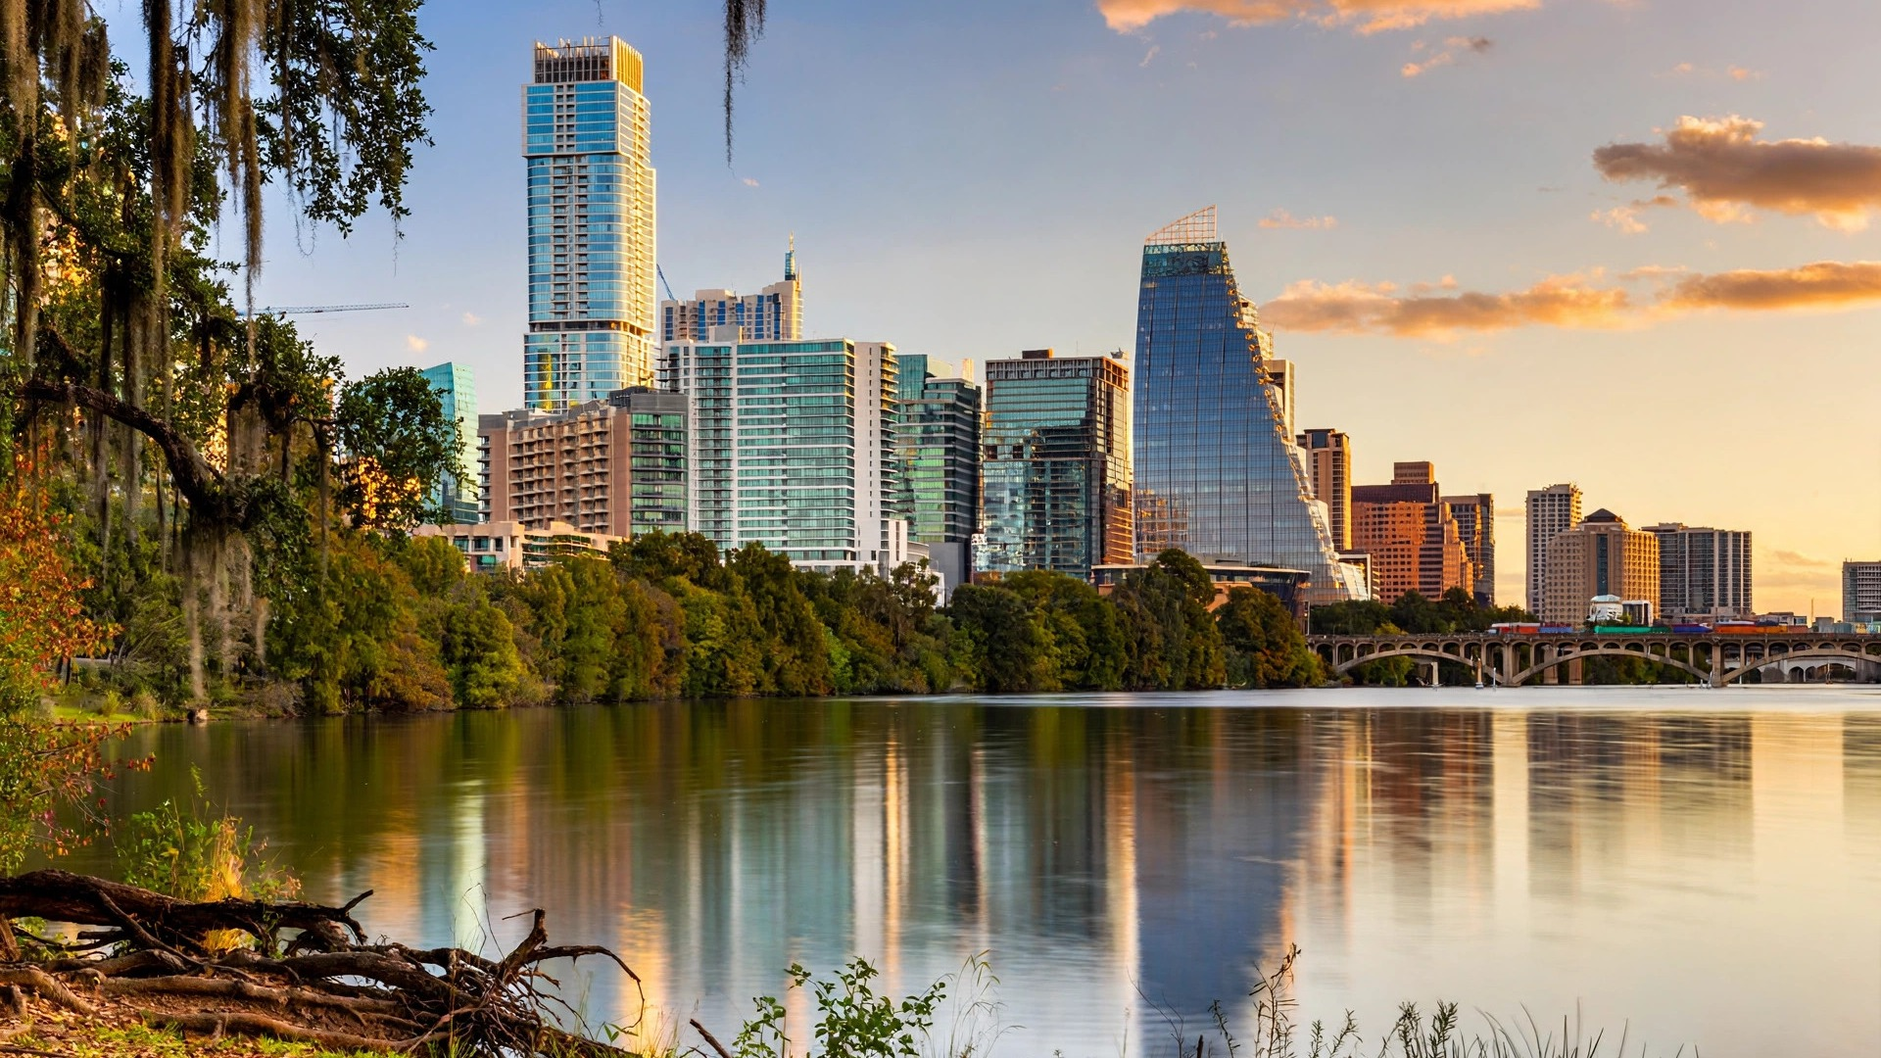
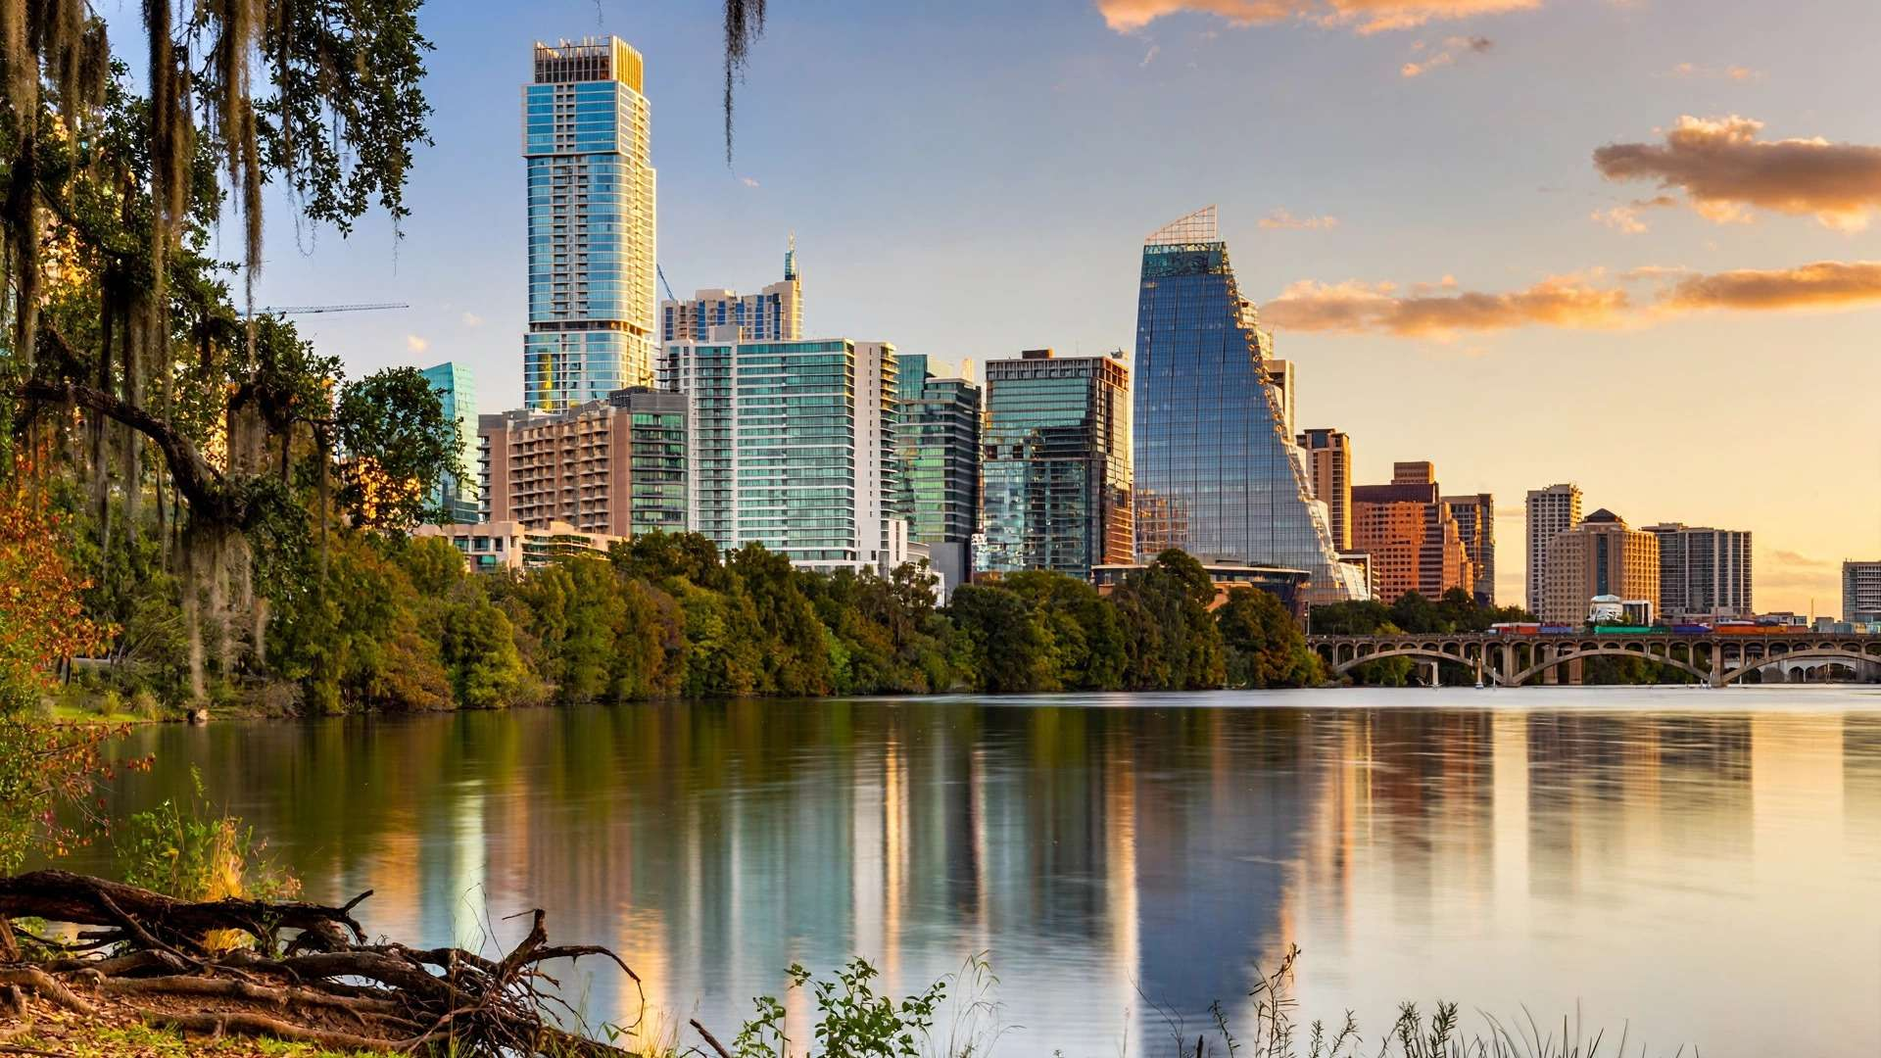
Homepage image diet: poster, quote-card illustration, review photos, mobile video gate
PageSpeed mobile was 75 with LCP 6.9s; the weight sat in three places. Hero poster recompressed in place (same 1920x1080 JPG, q60; it renders at 8 percent opacity). Quote-card illustration was a 522 KB 1920px PNG displayed at 96px; now a 384px WebP. Six review photos were 1296px PNGs in ~370px cards; now 768px WebPs, dimensions updated to match. The hero skyline video now loads only on screens 768px and up via a media-gated source; phones get the poster only and skip the 646 KB autoplay download. No wording changed.

Changed region(s): [[0.1875, 0.4278, 0.2188, 0.4889], [0.1562, 0.1528, 0.1875, 0.1833], [0.0625, 0.9778, 0.0938, 1.0]]

diff --git a/index.html b/index.html
@@ -17,7 +17,7 @@ Book Now
 (512) 661-7297
 </a> <a href="https://app.getvivaclean.com/book" class="flex items-center justify-center gap-2 rounded-md bg-accent px-5 py-3 text-white vc-shadow-cta hover:bg-accent-hover transition-colors">
 Book Online Now
-</a> </div> </div> </div> </div> <!-- Main Content --> <main>  <!-- ═══════════════════════════════════════════════════════════ --><!-- 1. HERO - Split layout with micro-form                    --><!-- ═══════════════════════════════════════════════════════════ --><section class="relative bg-white overflow-hidden"> <!-- Austin Skyline video background. The opacity on this layer is the site overlay; the video itself is not darkened. --> <div class="absolute inset-0 pointer-events-none" aria-hidden="true"> <video src="/images/austin-skyline-hero.mp4" poster="/images/austin-skyline-hero-poster-v2.jpg" autoplay muted loop playsinline preload="auto" class="w-full h-full object-cover object-bottom opacity-[0.08]" aria-hidden="true"></video> </div> <div class="relative z-10 mx-auto max-w-[1200px] px-6 py-8 md:py-12 grid gap-8 md:grid-cols-2 md:items-center"> <!-- Left: Copy --> <div> <h1 class="text-sm font-semibold text-accent">Austin House Cleaning &amp; Maid Service</h1> <p class="mt-3 text-[2rem] font-bold leading-[1.15] tracking-tight vc-navy-deep sm:text-5xl">
+</a> </div> </div> </div> </div> <!-- Main Content --> <main>  <!-- ═══════════════════════════════════════════════════════════ --><!-- 1. HERO - Split layout with micro-form                    --><!-- ═══════════════════════════════════════════════════════════ --><section class="relative bg-white overflow-hidden"> <!-- Austin Skyline video background. The opacity on this layer is the site overlay; the video itself is not darkened. --> <div class="absolute inset-0 pointer-events-none" aria-hidden="true"> <video poster="/images/austin-skyline-hero-poster-v2.jpg" autoplay muted loop playsinline preload="auto" class="w-full h-full object-cover object-bottom opacity-[0.08]" aria-hidden="true"><source src="/images/austin-skyline-hero.mp4" media="(min-width: 768px)" type="video/mp4"></video> </div> <div class="relative z-10 mx-auto max-w-[1200px] px-6 py-8 md:py-12 grid gap-8 md:grid-cols-2 md:items-center"> <!-- Left: Copy --> <div> <h1 class="text-sm font-semibold text-accent">Austin House Cleaning &amp; Maid Service</h1> <p class="mt-3 text-[2rem] font-bold leading-[1.15] tracking-tight vc-navy-deep sm:text-5xl">
 Your Home Cleaned Right, With the Photos to Prove It
 </p> <p class="mt-6 text-lg vc-body leading-relaxed">
 VivaClean cleans homes across Austin. You see your exact price online before you book, and after the clean, timestamped before and after photos of every room land in your client portal. If we miss something, flag it within 48 hours and we come back and re-clean it at no charge.
@@ -27,7 +27,7 @@ Background-checked, bonded, and insured cleaners
 We bring every supply and every tool
 </p> <p class="flex items-start gap-2 text-[17px] vc-ink"> <span class="text-accent font-bold text-xl leading-6">&#x2714;</span>
 Your exact price online, before you book
-</p> <p class="flex items-start gap-2 text-[17px] vc-ink"> <span class="text-accent font-bold text-xl leading-6">&#x2714;</span> <span>Before and after photos of every room, every clean.</span> </p> </div> </div> <!-- Right: Micro-Form --> <div class="flex justify-center"> <form id="hero-form" class="w-full max-w-[380px] rounded-2xl bg-white p-6 md:p-7 vc-shadow-card border border-gray-100"> <p class="text-xl font-bold vc-ink text-center leading-tight">Get Your Instant Price</p> <p class="mt-1.5 text-[14px] vc-faint text-center">Flat-rate prices for homes and apartments. The price you see is the price you pay.</p> <img src="/images/team-illustration.png" alt="VivaClean professional cleaning team illustration" class="mx-auto mt-2 w-24"> <div class="mt-3 relative"> <div class="absolute inset-y-0 left-4 flex items-center pointer-events-none"> <svg aria-hidden="true" class="w-5 h-5 vc-ash" fill="none" viewBox="0 0 24 24" stroke="currentColor" stroke-width="1.5"> <path stroke-linecap="round" stroke-linejoin="round" d="M15 10.5a3 3 0 11-6 0 3 3 0 016 0z"></path> <path stroke-linecap="round" stroke-linejoin="round" d="M19.5 10.5c0 7.142-7.5 11.25-7.5 11.25S4.5 17.642 4.5 10.5a7.5 7.5 0 1115 0z"></path> </svg> </div> <input id="zip" name="zip" type="text" inputmode="numeric" placeholder="Enter your zip code" pattern="[0-9]{5}" required maxlength="5" class="block w-full rounded-xl border-2 border-gray-200 vc-paper pl-12 pr-4 py-3 text-lg vc-ink vc-placeholder-ash focus:border-accent focus:bg-white focus:ring-4 focus:ring-accent/10 outline-none vc-transition"> </div> <button type="submit" class="mt-4 flex w-full items-center justify-center gap-2 rounded-xl bg-accent px-6 py-3 text-lg font-bold text-white vc-shadow-cta hover:bg-accent-hover vc-hover-shadow-cta-xl-soft active:scale-[0.98] vc-transition">
+</p> <p class="flex items-start gap-2 text-[17px] vc-ink"> <span class="text-accent font-bold text-xl leading-6">&#x2714;</span> <span>Before and after photos of every room, every clean.</span> </p> </div> </div> <!-- Right: Micro-Form --> <div class="flex justify-center"> <form id="hero-form" class="w-full max-w-[380px] rounded-2xl bg-white p-6 md:p-7 vc-shadow-card border border-gray-100"> <p class="text-xl font-bold vc-ink text-center leading-tight">Get Your Instant Price</p> <p class="mt-1.5 text-[14px] vc-faint text-center">Flat-rate prices for homes and apartments. The price you see is the price you pay.</p> <img src="/images/team-illustration-384w.webp" alt="VivaClean professional cleaning team illustration" width="384" height="256" class="mx-auto mt-2 w-24"> <div class="mt-3 relative"> <div class="absolute inset-y-0 left-4 flex items-center pointer-events-none"> <svg aria-hidden="true" class="w-5 h-5 vc-ash" fill="none" viewBox="0 0 24 24" stroke="currentColor" stroke-width="1.5"> <path stroke-linecap="round" stroke-linejoin="round" d="M15 10.5a3 3 0 11-6 0 3 3 0 016 0z"></path> <path stroke-linecap="round" stroke-linejoin="round" d="M19.5 10.5c0 7.142-7.5 11.25-7.5 11.25S4.5 17.642 4.5 10.5a7.5 7.5 0 1115 0z"></path> </svg> </div> <input id="zip" name="zip" type="text" inputmode="numeric" placeholder="Enter your zip code" pattern="[0-9]{5}" required maxlength="5" class="block w-full rounded-xl border-2 border-gray-200 vc-paper pl-12 pr-4 py-3 text-lg vc-ink vc-placeholder-ash focus:border-accent focus:bg-white focus:ring-4 focus:ring-accent/10 outline-none vc-transition"> </div> <button type="submit" class="mt-4 flex w-full items-center justify-center gap-2 rounded-xl bg-accent px-6 py-3 text-lg font-bold text-white vc-shadow-cta hover:bg-accent-hover vc-hover-shadow-cta-xl-soft active:scale-[0.98] vc-transition">
 Book Your Cleaning Now
 </button> <p class="mt-3 text-center text-xs vc-gravel">About a minute &bull; We never ask for a card to book</p> <div class="mt-4 flex items-center justify-center gap-4 text-xs vc-faint"> <span class="flex items-center gap-1"> <svg aria-hidden="true" class="w-4 h-4 text-green-500" fill="currentColor" viewBox="0 0 20 20"><path fill-rule="evenodd" d="M16.707 5.293a1 1 0 010 1.414l-8 8a1 1 0 01-1.414 0l-4-4a1 1 0 011.414-1.414L8 12.586l7.293-7.293a1 1 0 011.414 0z" clip-rule="evenodd"></path></svg>
 Bonded
@@ -38,7 +38,7 @@ Vetted Cleaners
 </span> </div> <p class="mt-3 text-center text-xs vc-gravel">Already a customer? <a href="https://app.getvivaclean.com/login" class="text-accent hover:text-accent-hover transition-colors font-medium">Log in</a></p> </form> </div> </div> </section> <!-- The hero zip form's submit is wired in BaseLayout.astro (wireZipForm), shared with the
        sticky Book bar so both carry the visitor's true source and GA4 _gl id to the booking hop. -->  <!-- ═══════════════════════════════════════════════════════════ --> <!-- 3. CUSTOMER REVIEWS                                        --> <!-- ═══════════════════════════════════════════════════════════ --> <section class="vc-paper py-16 md:py-20"> <div class="mx-auto max-w-[1200px] px-6"> <h2 class="text-3xl font-bold vc-ink text-center">What Our Customers Say</h2> <p class="mt-3 vc-body text-center max-w-xl mx-auto">
 Every Google review we have, word for word. All five stars.
-</p> <div class="mt-12 grid gap-6 sm:grid-cols-2 lg:grid-cols-3"> <div class="group rounded-xl bg-white shadow-lg border border-gray-100 overflow-hidden hover:-translate-y-1 vc-transition duration-300"> <img src="/images/review-tony-hines.png" alt="Google review by Tony Hines: five stars" loading="lazy" decoding="async" fetchpriority="auto" width="1296" height="800" class="w-full"> <div class="px-5 py-3.5 flex items-center justify-between border-t border-gray-100"> <span class="text-sm font-semibold vc-ink">Tony Hines</span> <span class="text-xs font-bold vc-blue-deep"> Google </span> </div> </div><div class="group rounded-xl bg-white shadow-lg border border-gray-100 overflow-hidden hover:-translate-y-1 vc-transition duration-300"> <img src="/images/review-j-r.png" alt="Google review by J R: five stars" loading="lazy" decoding="async" fetchpriority="auto" width="1296" height="800" class="w-full"> <div class="px-5 py-3.5 flex items-center justify-between border-t border-gray-100"> <span class="text-sm font-semibold vc-ink">J R</span> <span class="text-xs font-bold vc-blue-deep"> Google </span> </div> </div><div class="group rounded-xl bg-white shadow-lg border border-gray-100 overflow-hidden hover:-translate-y-1 vc-transition duration-300"> <img src="/images/review-brian-white.png" alt="Google review by Brian White: five stars" loading="lazy" decoding="async" fetchpriority="auto" width="1296" height="800" class="w-full"> <div class="px-5 py-3.5 flex items-center justify-between border-t border-gray-100"> <span class="text-sm font-semibold vc-ink">Brian White</span> <span class="text-xs font-bold vc-blue-deep"> Google </span> </div> </div><div class="group rounded-xl bg-white shadow-lg border border-gray-100 overflow-hidden hover:-translate-y-1 vc-transition duration-300"> <img src="/images/review-cristine-pottenger.png" alt="Google review by Cristine Pottenger: five stars" loading="lazy" decoding="async" fetchpriority="auto" width="1296" height="800" class="w-full"> <div class="px-5 py-3.5 flex items-center justify-between border-t border-gray-100"> <span class="text-sm font-semibold vc-ink">Cristine Pottenger</span> <span class="text-xs font-bold vc-blue-deep"> Google </span> </div> </div><div class="group rounded-xl bg-white shadow-lg border border-gray-100 overflow-hidden hover:-translate-y-1 vc-transition duration-300"> <img src="/images/review-travis-b.png" alt="Google review by Travis B: five stars" loading="lazy" decoding="async" fetchpriority="auto" width="1296" height="800" class="w-full"> <div class="px-5 py-3.5 flex items-center justify-between border-t border-gray-100"> <span class="text-sm font-semibold vc-ink">Travis B</span> <span class="text-xs font-bold vc-blue-deep"> Google </span> </div> </div><div class="group rounded-xl bg-white shadow-lg border border-gray-100 overflow-hidden hover:-translate-y-1 vc-transition duration-300"> <img src="/images/review-kevin-baer.png" alt="Google review by Kevin Baer: five stars" loading="lazy" decoding="async" fetchpriority="auto" width="1296" height="800" class="w-full"> <div class="px-5 py-3.5 flex items-center justify-between border-t border-gray-100"> <span class="text-sm font-semibold vc-ink">Kevin Baer</span> <span class="text-xs font-bold vc-blue-deep"> Google </span> </div> </div> </div> </div> </section> <!-- ═══════════════════════════════════════════════════════════ --> <!-- 4. 3 EASY STEPS                                            --> <!-- ═══════════════════════════════════════════════════════════ --> <section class="bg-white py-16 md:py-20"> <div class="mx-auto max-w-[1200px] px-6"> <h2 class="text-3xl font-bold vc-ink text-center">Austin House Cleaning in 3 Easy Steps</h2> <div class="mt-12 grid gap-8 sm:grid-cols-3"> <div class="text-center"> <div class="mx-auto flex h-24 w-24 items-center justify-center"> <img src="/images/vacuum-cleaner.svg" alt="Vacuum cleaner" class="h-16 w-16" loading="lazy"> </div> <h3 class="mt-4 text-lg font-bold vc-ink">See Your Exact Price</h3> <p class="mt-2 text-[15px] vc-body leading-relaxed">Tell us what you need cleaned and where. Your exact price comes back online before you book anything.</p> </div><div class="text-center"> <div class="mx-auto flex h-24 w-24 items-center justify-center"> <img src="/images/calendar.svg" alt="Calendar" class="h-16 w-16" loading="lazy"> </div> <h3 class="mt-4 text-lg font-bold vc-ink">Pick Your Day and Time</h3> <p class="mt-2 text-[15px] vc-body leading-relaxed">Book the slot that fits your week in about a minute. Recurring visits run weekly, every two weeks, or monthly.</p> </div><div class="text-center"> <div class="mx-auto flex h-24 w-24 items-center justify-center"> <img src="/images/home-run.svg" alt="A clean, tidy home" class="h-16 w-16" loading="lazy"> </div> <h3 class="mt-4 text-lg font-bold vc-ink">Check the Photos After</h3> <p class="mt-2 text-[15px] vc-body leading-relaxed">When we finish, timestamped before and after photos of every room are waiting in your client portal.</p> </div> </div> <div class="mt-10 flex flex-wrap justify-center items-center gap-4"> <a href="https://app.getvivaclean.com/book" class="inline-flex items-center gap-2 rounded-md bg-accent px-6 py-3 text-lg text-white vc-shadow-cta hover:bg-accent-hover transition-colors">
+</p> <div class="mt-12 grid gap-6 sm:grid-cols-2 lg:grid-cols-3"> <div class="group rounded-xl bg-white shadow-lg border border-gray-100 overflow-hidden hover:-translate-y-1 vc-transition duration-300"> <img src="/images/review-tony-hines.webp" alt="Google review by Tony Hines: five stars" loading="lazy" decoding="async" fetchpriority="auto" width="768" height="474" class="w-full"> <div class="px-5 py-3.5 flex items-center justify-between border-t border-gray-100"> <span class="text-sm font-semibold vc-ink">Tony Hines</span> <span class="text-xs font-bold vc-blue-deep"> Google </span> </div> </div><div class="group rounded-xl bg-white shadow-lg border border-gray-100 overflow-hidden hover:-translate-y-1 vc-transition duration-300"> <img src="/images/review-j-r.webp" alt="Google review by J R: five stars" loading="lazy" decoding="async" fetchpriority="auto" width="768" height="474" class="w-full"> <div class="px-5 py-3.5 flex items-center justify-between border-t border-gray-100"> <span class="text-sm font-semibold vc-ink">J R</span> <span class="text-xs font-bold vc-blue-deep"> Google </span> </div> </div><div class="group rounded-xl bg-white shadow-lg border border-gray-100 overflow-hidden hover:-translate-y-1 vc-transition duration-300"> <img src="/images/review-brian-white.webp" alt="Google review by Brian White: five stars" loading="lazy" decoding="async" fetchpriority="auto" width="768" height="474" class="w-full"> <div class="px-5 py-3.5 flex items-center justify-between border-t border-gray-100"> <span class="text-sm font-semibold vc-ink">Brian White</span> <span class="text-xs font-bold vc-blue-deep"> Google </span> </div> </div><div class="group rounded-xl bg-white shadow-lg border border-gray-100 overflow-hidden hover:-translate-y-1 vc-transition duration-300"> <img src="/images/review-cristine-pottenger.webp" alt="Google review by Cristine Pottenger: five stars" loading="lazy" decoding="async" fetchpriority="auto" width="768" height="474" class="w-full"> <div class="px-5 py-3.5 flex items-center justify-between border-t border-gray-100"> <span class="text-sm font-semibold vc-ink">Cristine Pottenger</span> <span class="text-xs font-bold vc-blue-deep"> Google </span> </div> </div><div class="group rounded-xl bg-white shadow-lg border border-gray-100 overflow-hidden hover:-translate-y-1 vc-transition duration-300"> <img src="/images/review-travis-b.webp" alt="Google review by Travis B: five stars" loading="lazy" decoding="async" fetchpriority="auto" width="768" height="474" class="w-full"> <div class="px-5 py-3.5 flex items-center justify-between border-t border-gray-100"> <span class="text-sm font-semibold vc-ink">Travis B</span> <span class="text-xs font-bold vc-blue-deep"> Google </span> </div> </div><div class="group rounded-xl bg-white shadow-lg border border-gray-100 overflow-hidden hover:-translate-y-1 vc-transition duration-300"> <img src="/images/review-kevin-baer.webp" alt="Google review by Kevin Baer: five stars" loading="lazy" decoding="async" fetchpriority="auto" width="768" height="474" class="w-full"> <div class="px-5 py-3.5 flex items-center justify-between border-t border-gray-100"> <span class="text-sm font-semibold vc-ink">Kevin Baer</span> <span class="text-xs font-bold vc-blue-deep"> Google </span> </div> </div> </div> </div> </section> <!-- ═══════════════════════════════════════════════════════════ --> <!-- 4. 3 EASY STEPS                                            --> <!-- ═══════════════════════════════════════════════════════════ --> <section class="bg-white py-16 md:py-20"> <div class="mx-auto max-w-[1200px] px-6"> <h2 class="text-3xl font-bold vc-ink text-center">Austin House Cleaning in 3 Easy Steps</h2> <div class="mt-12 grid gap-8 sm:grid-cols-3"> <div class="text-center"> <div class="mx-auto flex h-24 w-24 items-center justify-center"> <img src="/images/vacuum-cleaner.svg" alt="Vacuum cleaner" class="h-16 w-16" loading="lazy"> </div> <h3 class="mt-4 text-lg font-bold vc-ink">See Your Exact Price</h3> <p class="mt-2 text-[15px] vc-body leading-relaxed">Tell us what you need cleaned and where. Your exact price comes back online before you book anything.</p> </div><div class="text-center"> <div class="mx-auto flex h-24 w-24 items-center justify-center"> <img src="/images/calendar.svg" alt="Calendar" class="h-16 w-16" loading="lazy"> </div> <h3 class="mt-4 text-lg font-bold vc-ink">Pick Your Day and Time</h3> <p class="mt-2 text-[15px] vc-body leading-relaxed">Book the slot that fits your week in about a minute. Recurring visits run weekly, every two weeks, or monthly.</p> </div><div class="text-center"> <div class="mx-auto flex h-24 w-24 items-center justify-center"> <img src="/images/home-run.svg" alt="A clean, tidy home" class="h-16 w-16" loading="lazy"> </div> <h3 class="mt-4 text-lg font-bold vc-ink">Check the Photos After</h3> <p class="mt-2 text-[15px] vc-body leading-relaxed">When we finish, timestamped before and after photos of every room are waiting in your client portal.</p> </div> </div> <div class="mt-10 flex flex-wrap justify-center items-center gap-4"> <a href="https://app.getvivaclean.com/book" class="inline-flex items-center gap-2 rounded-md bg-accent px-6 py-3 text-lg text-white vc-shadow-cta hover:bg-accent-hover transition-colors">
 Book Your Home Cleaning
 </a> <a href="/services" class="text-lg text-accent hover:text-accent-hover transition-colors">View Pricing</a> </div> <p class="mt-3 text-center text-sm vc-gravel">Rated 5.0 on Google</p> </div> </section> <!-- ═══════════════════════════════════════════════════════════ --> <!-- 5. WHAT'S INCLUDED - Every cleaning, standard               --> <!-- ═══════════════════════════════════════════════════════════ --> <section class="vc-paper py-16 md:py-20"> <div class="mx-auto max-w-[900px] px-6"> <h2 class="text-3xl font-bold vc-ink text-center">Everything Included in Every Clean</h2> <p class="mt-3 text-center vc-body max-w-xl mx-auto">Every clean runs off the same list, and your flat price covers all of it. Here is the list.</p> <div class="mt-10 space-y-4"> <div class="rounded-lg border border-gray-200 vc-paper px-6 py-5"> <div class="flex items-start gap-3"> <span class="text-accent text-xl font-bold leading-6 shrink-0">&#x2714;</span> <div> <!-- STANDARD clean, so it is the 85. "Deep Clean Checklist" was a second
                    error stacked on the 55: the deep tier is 100 and is not what this
